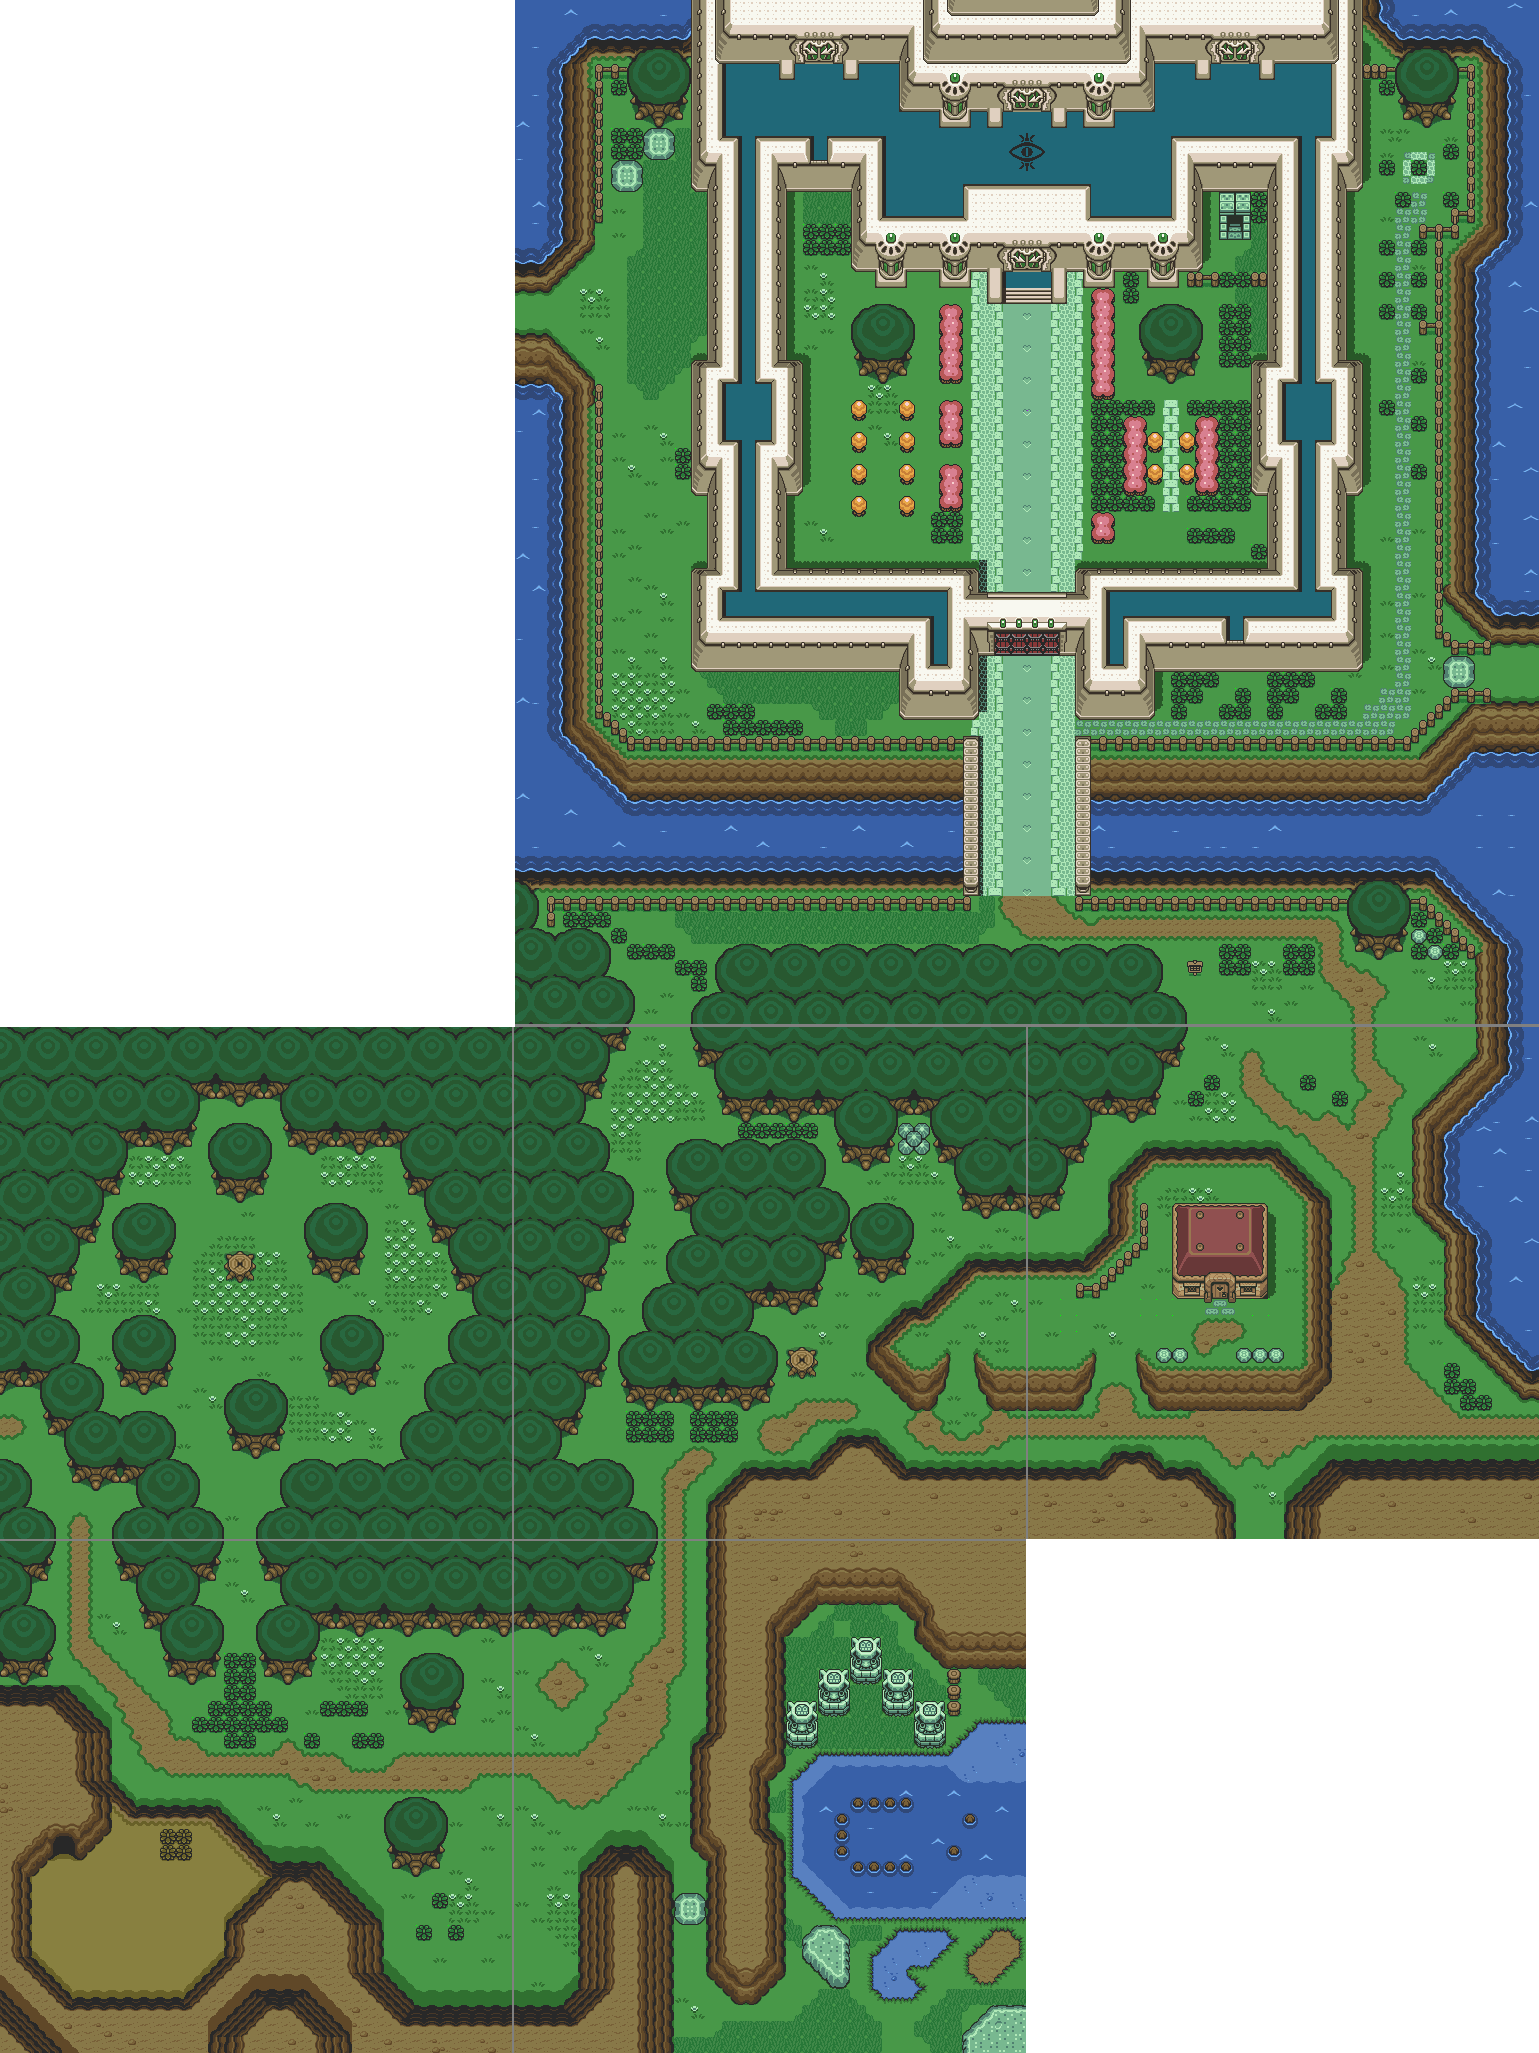
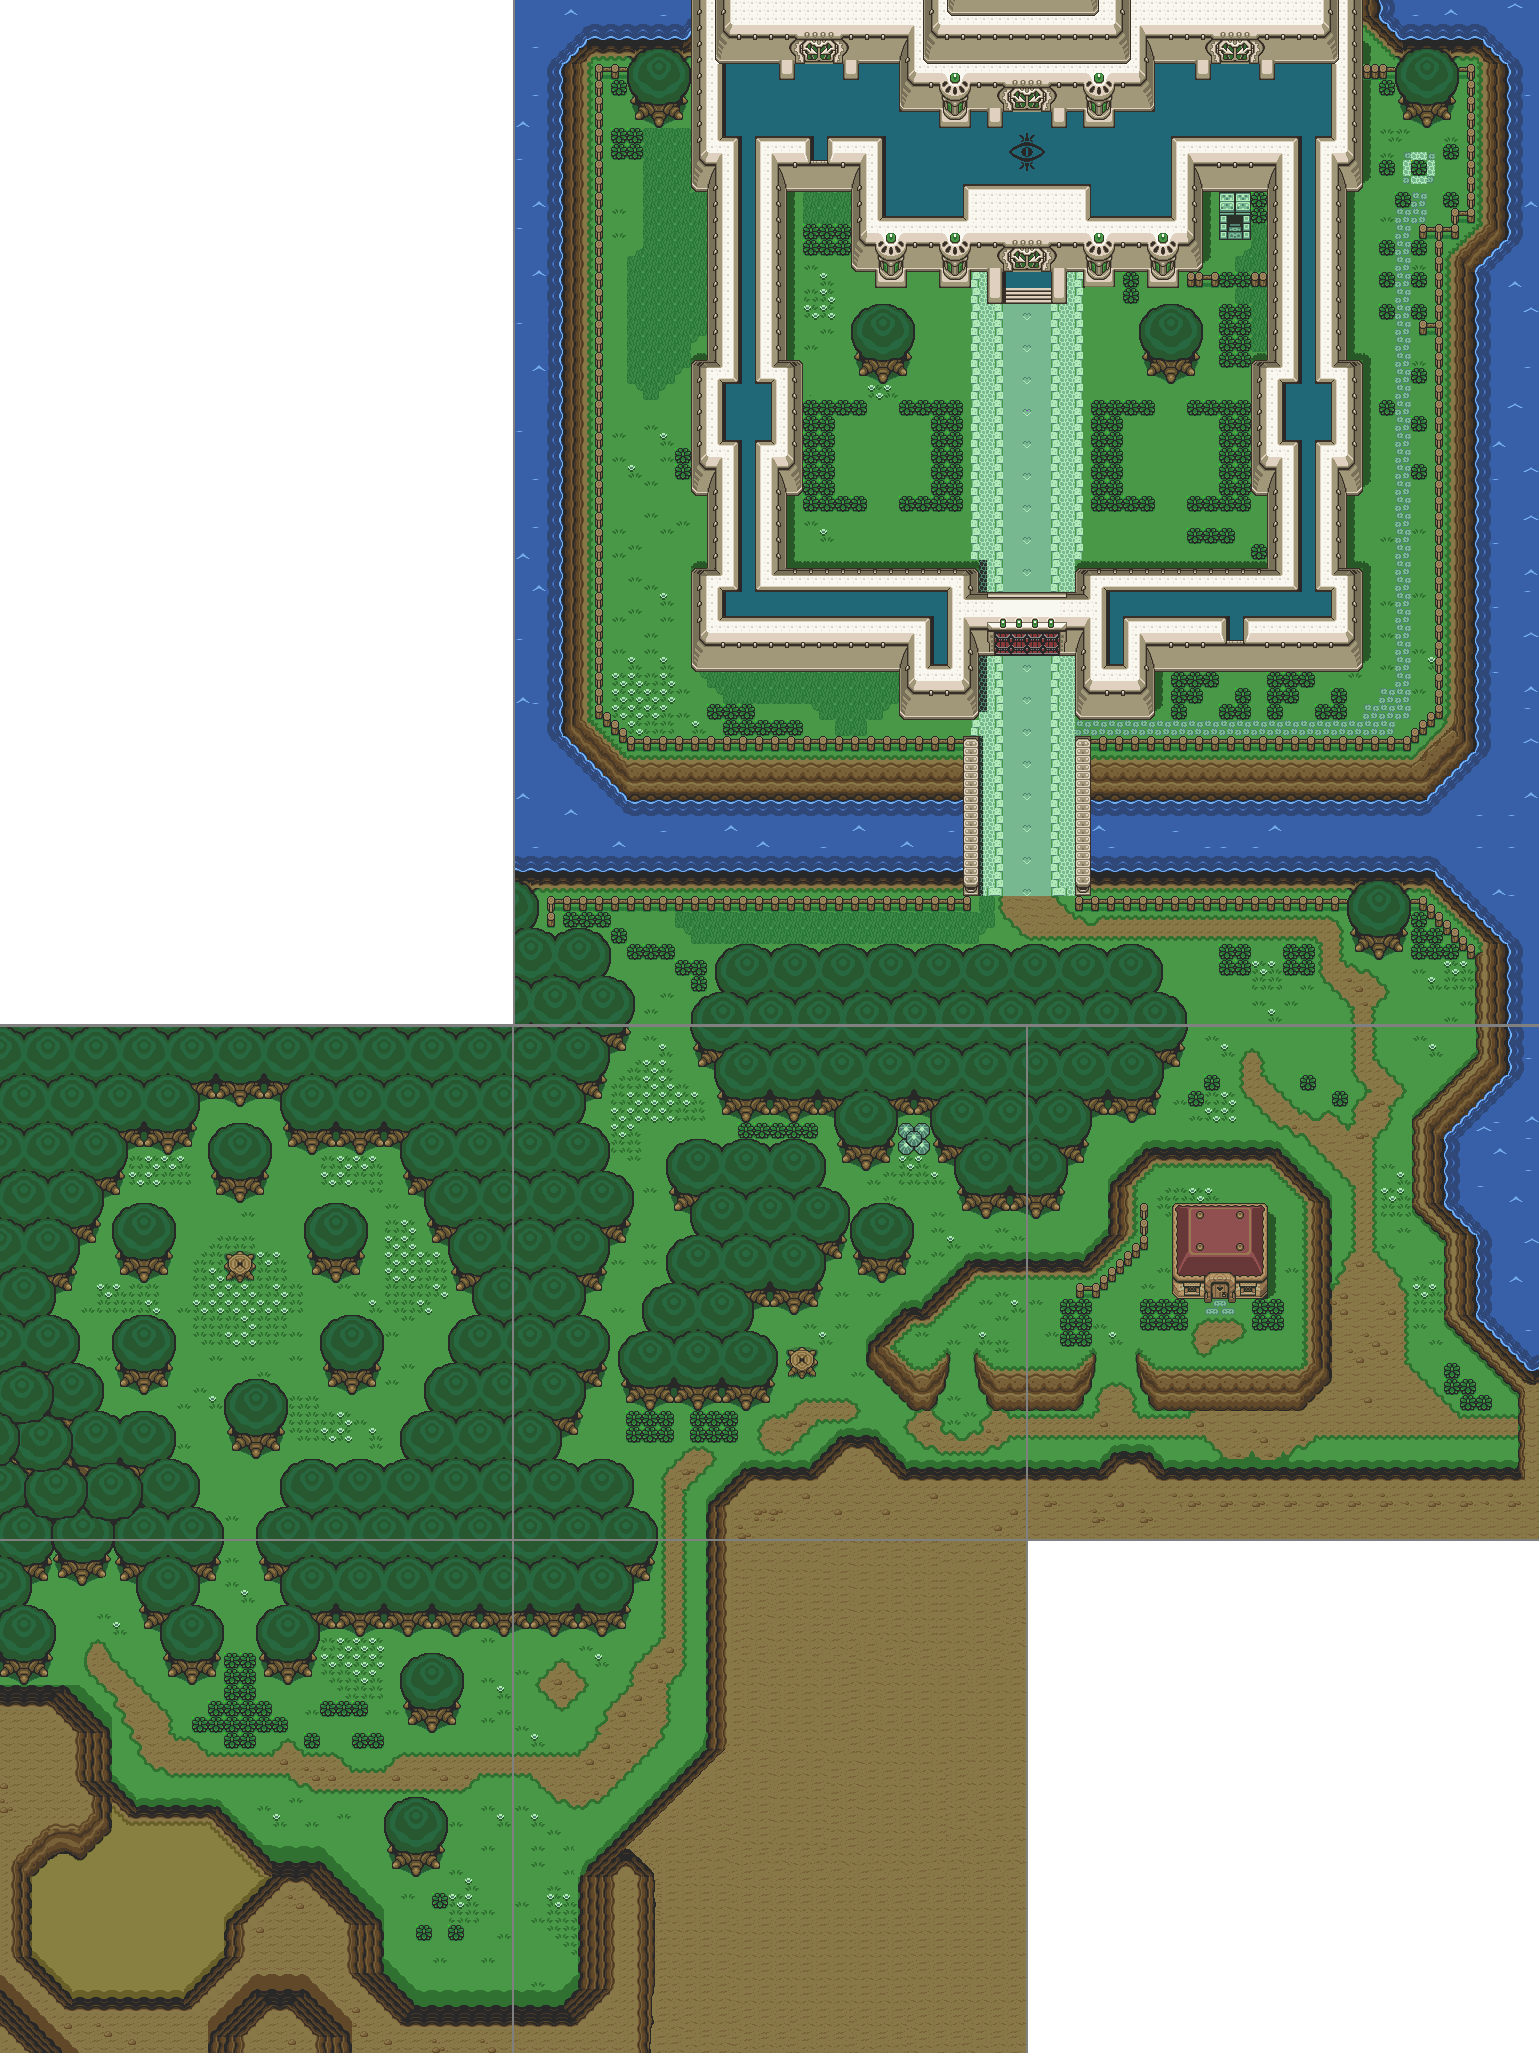
camera zone par zone

diff --git a/src/systems/camera.cpp b/src/systems/camera.cpp
@@ -1,75 +1,33 @@
 #include "camera.hpp"
-#include <iostream>
 
-Camera::Camera(float windowWidth, float windowHeight) {
-    view.setSize(windowWidth, windowHeight);
-    view.setCenter(windowWidth / 2, windowHeight / 2);
-    canTransitioning = true;
+Camera::Camera() {
+    view.setSize(Config::WINDOW_WIDTH, Config::WINDOW_HEIGHT);
+    view.setCenter(Config::WINDOW_WIDTH / 2, Config::WINDOW_HEIGHT / 2);
 }
 
-void Camera::setRooms(const std::vector<sf::IntRect>& rooms) {
-    this->rooms = rooms;
-}
+void Camera::update(const sf::Vector2f& playerPosition, float deltaTime, bool isPaused, bool instant, const sf::FloatRect& zoneBounds) {
+    if (!isPaused) {
+        sf::Vector2f targetPosition = playerPosition;
 
-void Camera::update(const sf::Vector2f& playerPosition, float deltaTime, bool isInMenu) {
-    sf::Vector2f targetPosition;
+        if (instant) {
+            view.setCenter(targetPosition);
+        }
+        else {
+            sf::Vector2f currentCenter = view.getCenter();
+            sf::Vector2f newCenter = currentCenter + (targetPosition - currentCenter) * 0.1f;
 
-    if (isInMenu) {
-        updateForMenu();
-        canTransitioning = false;
-        return;
+            newCenter.x = std::max(zoneBounds.left + Config::WINDOW_WIDTH / 2, std::min(newCenter.x, zoneBounds.left + zoneBounds.width - Config::WINDOW_WIDTH / 2));
+            newCenter.y = std::max(zoneBounds.top + Config::WINDOW_HEIGHT / 2, std::min(newCenter.y, zoneBounds.top + zoneBounds.height - Config::WINDOW_HEIGHT / 2));
+
+            view.setCenter(newCenter);
+        }
     }
-
-    if (inRoom) {
-        float x = currentRoom.left + currentRoom.width / 2;
-        float y = currentRoom.top + currentRoom.height / 2;
-
-        x = std::max(x, view.getSize().x / 2);
-        y = std::max(y, view.getSize().y / 2);
-        x = std::min(x, currentRoom.left + currentRoom.width - view.getSize().x / 2);
-        y = std::min(y, currentRoom.top + currentRoom.height - view.getSize().y / 2);
-
-        targetPosition = sf::Vector2f(x, y);
-    }
-    else {
-        targetPosition = playerPosition;
-    }
-
-    if (canTransitioning) {
-        sf::Vector2f currentCenter = view.getCenter();
-        sf::Vector2f interpolatedPosition = currentCenter + (targetPosition - currentCenter) * deltaTime * 5.0f;
-        view.setCenter(interpolatedPosition);
-    }
-
-    if (!canTransitioning) {
-        view.setCenter(targetPosition);
-    }
-
-    if (!isInMenu) {
-        canTransitioning = true;
-    }
-
-    checkRoomTransition(playerPosition);
 }
 
 void Camera::applyView(sf::RenderWindow& window) {
     window.setView(view);
 }
 
-void Camera::checkRoomTransition(const sf::Vector2f& playerPosition) {
-    for (const auto& room : rooms) {
-        if (room.contains(playerPosition.x, playerPosition.y)) {
-            if (!inRoom || room != currentRoom) {
-                currentRoom = room;
-                inRoom = true;
-            }
-            return;
-        }
-    }
-    inRoom = false;
-}
-
-void Camera::updateForMenu() {
-    view.setCenter(Config::WINDOW_WIDTH/2, Config::WINDOW_HEIGHT / 2);
-    inRoom = false;
+void Camera::resetToDefault() {
+    view.setCenter(Config::WINDOW_WIDTH / 2, Config::WINDOW_HEIGHT / 2);
 }

diff --git a/src/map/map.cpp b/src/map/map.cpp
@@ -1,4 +1,4 @@
-#include "map.hpp"
+#include "Map.hpp"
 #include <iostream>
 
 Map::Map() {}
@@ -13,11 +13,6 @@ void Map::importAllTextures(sf::RenderWindow& window) {
 
     if (!mapElements["bush"].texture.loadFromFile("assets/images/map/textures/bush.png")) {
         std::cerr << "Image Failed to Load : bush.png " << std::endl;
-        return;
-    }
-
-    if (!mapElements["tree"].texture.loadFromFile("assets/images/map/textures/tree.png")) {
-        std::cerr << "Image Failed to Load : tree.png " << std::endl;
         return;
     }
 
@@ -57,16 +52,23 @@ void Map::loadBackgroundFromImage() {
                 sprite.setPosition(x * tileSize, y * tileSize);
                 mapElements["bush"].sprites.push_back(sprite);
             }
-            else if (pixelColor == sf::Color(255, 0, 0)) {
-                sprite.setTexture(mapElements["tree"].texture);
-                sprite.setScale(160.f / mapElements["tree"].texture.getSize().x, 200.f / mapElements["tree"].texture.getSize().y);
-                float offsetX = (tileSize - 160.f) / 2.0f;
-                float offsetY = (tileSize - 200.f) / 2.0f;
-                sprite.setPosition(x * tileSize + offsetX, y * tileSize + offsetY);
-                mapElements["tree"].sprites.push_back(sprite);
-            }
         }
     }
+    addZone(sf::FloatRect(4112, 4108, 2039, 2047), "Zone1"); 
+    addZone(sf::FloatRect(2056, 4108, 2048, 2048), "Zone2"); 
+    addZone(sf::FloatRect(2056, 6164, 2048, 2048), "Zone3"); 
+    addZone(sf::FloatRect(0, 6164, 2039, 2048), "Zone4"); 
+    addZone(sf::FloatRect(0, 4108, 2039, 2048), "Zone5"); 
+    addZone(sf::FloatRect(2060, 0, 4096, 4096), "Zone6");
+}
+
+const Map::Zone* Map::getZoneContaining(const sf::Vector2f& position) const {
+    for (const auto& zone : zones) {
+        if (zone.bounds.contains(position)) {
+            return &zone;
+        }
+    }
+    return nullptr;
 }
 
 void Map::update(float deltaTime) {}
@@ -93,18 +95,10 @@ void Map::draw(sf::RenderWindow& window) {
 
     drawSprites("grass", mapElements, window);
     drawSprites("bush", mapElements, window);
-    drawSprites("tree", mapElements, window);
 }
 
-const std::vector<sf::Sprite>& Map::getTrees() const {
-    auto it = mapElements.find("tree");
-    if (it != mapElements.end()) {
-        return it->second.sprites;
-    }
-    else {
-        static std::vector<sf::Sprite> empty;
-        return empty;
-    }
+void Map::addZone(const sf::FloatRect& bounds, const std::string& name) {
+    zones.push_back({ bounds, name });
 }
 
 const std::vector<sf::Sprite>& Map::getBushes() const {

diff --git a/src/core/game.cpp b/src/core/game.cpp
@@ -1,8 +1,8 @@
 #include "../core/game.hpp"
 #include <iostream>
 
-Game::Game() : isRunning(false), camera(Config::WINDOW_WIDTH, Config::WINDOW_HEIGHT),
-    player(sf::Vector2f(4850, 5200), 60, "assets/images/characters/Link.png"), 
+Game::Game() : isRunning(false), camera(),
+    player(sf::Vector2f(4850, 5200), 60, "assets/images/characters/Link.png"),
     bokoblin(sf::Vector2f(300, 300), 50, { sf::Vector2f(1000, 300), sf::Vector2f(500, 500), sf::Vector2f(800, 700),sf::Vector2f(100, 600) }, "assets/images/characters/Bokoblin.png"),
     currentState(GameState::MAIN_MENU), ignoreNextClick(false), isGamePaused(false) {
     
@@ -37,12 +37,21 @@ void Game::processEvents() {
 void Game::update(float deltaTime) {
     if (currentState == GameState::PLAYING) {
         map.update(deltaTime);
-        camera.update(player.getPosition(), deltaTime, false);
-        player.update(deltaTime, map.getTrees(), map.getBushes());
-        bokoblin.update(deltaTime, map.getTrees(), map.getBushes());
+        player.update(deltaTime, map.getBushes());
+        bokoblin.update(deltaTime, map.getBushes());
+
+        const Map::Zone* currentZone = map.getZoneContaining(player.getPosition());
+        if (currentZone) {
+            camera.update(player.getPosition(), deltaTime, false, false, currentZone->bounds);
+        }
+        else {
+            camera.resetToDefault();
+            camera.update(player.getPosition(), deltaTime, false, true);
+        }
     }
     else {
-        camera.update(player.getPosition(), deltaTime, true);
+        camera.resetToDefault();
+        camera.update(player.getPosition(), deltaTime, true, true);
     }
 }
 

diff --git a/src/entities/player.cpp b/src/entities/player.cpp
@@ -22,12 +22,12 @@ Player::Player(sf::Vector2f spawnposition, float size, const std::string& textur
     player.setPosition(position);
 }
 
-void Player::update(float deltatime, const std::vector<sf::Sprite>& trees, const std::vector<sf::Sprite>& bushes) {
+void Player::update(float deltatime, const std::vector<sf::Sprite>& bushes) {
     previousPosition = position;
     handleInput(deltatime);
     player.setPosition(position);
 
-    checkCollisionWithMap(trees, bushes);
+    checkCollisionWithMap(bushes);
 }
 
 void Player::handleInput(float deltatime) {
@@ -78,15 +78,7 @@ void Player::checkCollisionWithWalls(const std::vector<sf::RectangleShape>& wall
         player.setPosition(position);
     }
 }
-void Player::checkCollisionWithMap(const std::vector<sf::Sprite>& trees, const std::vector<sf::Sprite>& bushes) {
-    for (const auto& tree : trees) {
-        if (player.getGlobalBounds().intersects(tree.getGlobalBounds())) {
-            position = previousPosition;
-            player.setPosition(position);
-            return;
-        }
-    }
-
+void Player::checkCollisionWithMap(const std::vector<sf::Sprite>& bushes) {
     for (const auto& bush : bushes) {
         if (player.getGlobalBounds().intersects(bush.getGlobalBounds())) {
             position = previousPosition;
@@ -98,4 +90,9 @@ void Player::checkCollisionWithMap(const std::vector<sf::Sprite>& trees, const s
 
 sf::Vector2f Player::getPosition() const {
     return player.getPosition();
+}
+
+void Player::setPosition(const sf::Vector2f& position) {
+    this->position = position;
+    player.setPosition(position);
 }

diff --git a/src/entities/Player.hpp b/src/entities/Player.hpp
@@ -7,19 +7,19 @@ class Player : public Entity
 public:
     Player(sf::Vector2f position, float size, const std::string& texturePath);
 
-    void update(float deltatime, const std::vector<sf::Sprite>& trees, const std::vector<sf::Sprite>& bushes) override;
+    void update(float deltatime, const std::vector<sf::Sprite>& bushes) override;
     void draw(sf::RenderWindow& window) override;
     void handleInput(float deltatime);
     void increaseSpeed(float amount);
     void collectKey();
     void checkCollisionWithWalls(const std::vector<sf::RectangleShape>& walls);
-    void checkCollisionWithMap(const std::vector<sf::Sprite>& trees, const std::vector<sf::Sprite>& bushes);
-
+    void checkCollisionWithMap(const std::vector<sf::Sprite>& bushes);
 
     const sf::Sprite& getSprite() const { return player; }
     bool hasKey;
 
     sf::Vector2f getPosition() const;
+    void setPosition(const sf::Vector2f& position);
 
 protected:
     sf::Sprite player;

diff --git a/src/systems/Camera.hpp b/src/systems/Camera.hpp
@@ -2,27 +2,18 @@
 #define CAMERA_HPP
 
 #include <SFML/Graphics.hpp>
-#include "../entities/Player.hpp"
 #include "../utils/Config.hpp"
 
 class Camera {
 public:
-    Camera(float windowWidth, float windowHeight);
+    Camera();
 
-    void setRooms(const std::vector<sf::IntRect>& rooms);
-    void update(const sf::Vector2f& playerPosition, float deltaTime, bool isInMenu = false);
+    void update(const sf::Vector2f& playerPosition, float deltaTime, bool isPaused, bool instant = false, const sf::FloatRect& zoneBounds = sf::FloatRect());
     void applyView(sf::RenderWindow& window);
+    void resetToDefault();
 
 private:
     sf::View view;
-    sf::Vector2f targetPosition;
-    bool inRoom = false;
-    bool canTransitioning = false;
-    sf::IntRect currentRoom;
-    std::vector<sf::IntRect> rooms;
-
-    void checkRoomTransition(const sf::Vector2f& playerPosition);
-    void updateForMenu();
 };
 
 #endif // CAMERA_HPP

diff --git a/src/map/Map.hpp b/src/map/Map.hpp
@@ -6,12 +6,6 @@
 #include <vector>
 #include <map>
 
-class Room {
-public:
-    sf::IntRect rect;
-    Room(int x, int y, int width, int height) : rect(x, y, width, height) {}
-};
-
 class Map {
 private:
     struct MapElement {
@@ -20,7 +14,15 @@ private:
     };
 
     std::map<std::string, MapElement> mapElements;
-    std::vector<Room> rooms;
+
+public:
+    struct Zone {
+        sf::FloatRect bounds;
+        std::string name;
+    };
+
+private:
+    std::vector<Zone> zones;
 
 public:
     Map();
@@ -31,8 +33,11 @@ public:
     void update(float deltaTime);
     void draw(sf::RenderWindow& window);
 
-    const std::vector<sf::Sprite>& getTrees() const;
     const std::vector<sf::Sprite>& getBushes() const;
+
+    const Zone* getZoneContaining(const sf::Vector2f& position) const;
+
+    void addZone(const sf::FloatRect& bounds, const std::string& name);
 };
 
 #endif // MAP_H

diff --git a/src/entities/Bokoblin.hpp b/src/entities/Bokoblin.hpp
@@ -11,8 +11,7 @@ public:
 
     Patrolling(const sf::Vector2f& startPosition, float size, const std::vector<sf::Vector2f>& path, const std::string& texturePath);
 
-
-    void update(float deltaTime, const std::vector<sf::Sprite>& trees, const std::vector<sf::Sprite>& bushes) override;
+    void update(float deltaTime, const std::vector<sf::Sprite>& bushes) override;
     void draw(sf::RenderWindow& window) override;
 
     const sf::Sprite& getSprite() const { return sprite; }

diff --git a/src/entities/bokoblin.cpp b/src/entities/bokoblin.cpp
@@ -19,7 +19,7 @@ Patrolling::Patrolling(const sf::Vector2f& startPosition, float size, const std:
     sprite.setPosition(position);
 }
 
-void Patrolling::update(float deltaTime, const std::vector<sf::Sprite>& trees, const std::vector<sf::Sprite>& bushes) {
+void Patrolling::update(float deltaTime, const std::vector<sf::Sprite>& bushes) {
     if (!pathPoints.empty()) {
         moveToNextPoint(deltaTime);
     }

diff --git a/src/entities/Entity.hpp b/src/entities/Entity.hpp
@@ -7,7 +7,7 @@
 class Entity {
 public:
 
-	virtual void update(float deltatime, const std::vector<sf::Sprite>& trees, const std::vector<sf::Sprite>& bushes) = 0;
+	virtual void update(float deltatime, const std::vector<sf::Sprite>& bushes) = 0;
 	virtual void draw(sf::RenderWindow& window) = 0;
 
 protected:

diff --git a/src/ui/pauseMenu.cpp b/src/ui/pauseMenu.cpp
@@ -23,7 +23,6 @@ void PauseMenu::initButtons()
     }
 }
 
-
 int PauseMenu::handleInput(sf::RenderWindow& window, const sf::Event& event)
 {
     if (event.type == sf::Event::MouseButtonPressed && event.mouseButton.button == sf::Mouse::Left) {

diff --git a/src/ui/OptionsMenu.hpp b/src/ui/OptionsMenu.hpp
@@ -41,8 +41,8 @@ private:
 	InputHandler inputHandler;
 
 	bool ignoreNextClick;
-public:
 
+public:
 	OptionsMenu();
 
 	void updateTextVolumeMusic();
